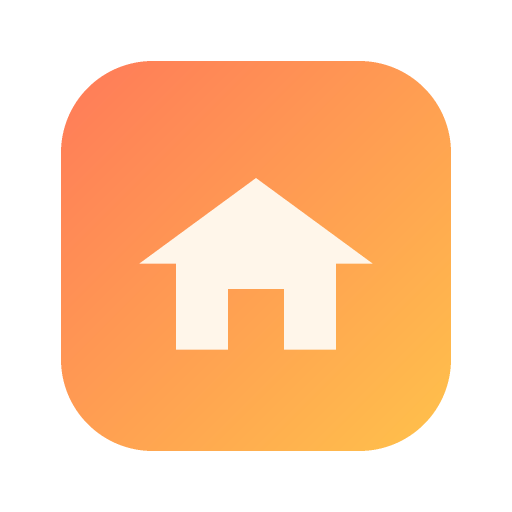
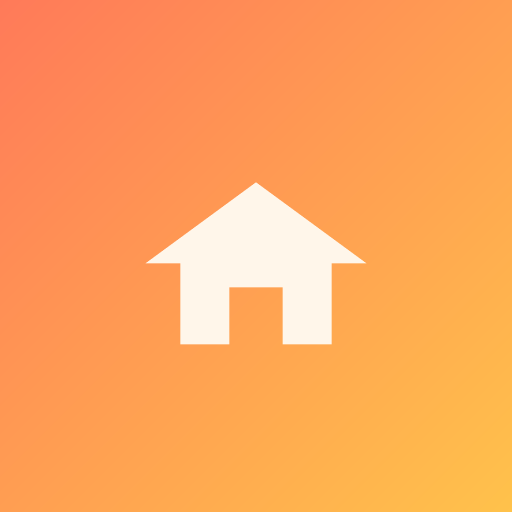
fix: iconos de iOS sin transparencia para que aparezcan al añadir a inicio
En iPhone, "Añadir a pantalla de inicio" no mostraba ningún icono: el
apple-touch-icon era un PNG RGBA con las esquinas transparentes, y iOS
no admite canal alfa ahí (lo compone sobre negro o descarta el icono).

Los iconos de Apple pasan a ser opacos y sin esquinas redondeadas: el
redondeo lo aplica el propio iOS. Se añaden los tamaños 167/152/120
para iPad e iPhone antiguos, y una copia en la raíz del sitio, que es
donde iOS busca por defecto si no encuentra la etiqueta link.

El icono maskable de Android también pasa a ser opaco a pantalla
completa, que es lo que exige la máscara del sistema.

Sube la caché del service worker a casa-v2; sin eso, los dispositivos
que ya tuvieran la app instalada seguirían usando los iconos viejos.

diff --git a/herramientas/generar-iconos.js b/herramientas/generar-iconos.js
@@ -84,9 +84,19 @@ function escribirPng(ruta, ancho, alto, pixeles) {
 }
 
 // --- Dibujo del icono -------------------------------------------------------
-// escala: 0 = el dibujo llena el lienzo (icono normal)
-//         >0 = deja ese margen proporcional (icono maskable, que Android recorta)
-function dibujar(tam, margen) {
+// opciones:
+//   margen        proporción de aire alrededor del dibujo (0 = llena el lienzo)
+//   sinRecorte    true  = fondo OPACO que llena todo el cuadrado, sin esquinas
+//                         redondeadas ni transparencia. Obligatorio para el
+//                         icono de Apple (iOS descarta o ennegrece los PNG con
+//                         canal alfa) y para los "maskable" de Android, que
+//                         recorta el sistema con su propia forma.
+//                 false = cuadrado redondeado con las esquinas transparentes.
+//   zonaSegura    con sinRecorte, qué proporción del centro ocupa el dibujo,
+//                 para que no se coma nada el recorte del sistema.
+function dibujar(tam, margen, opciones) {
+  const sinRecorte = !!(opciones && opciones.sinRecorte);
+  const zonaSegura = (opciones && opciones.zonaSegura) || 0.76;
   const px = Buffer.alloc(tam * tam * 4);
   const poner = (x, y, [r, g, b], a = 255) => {
     if (x < 0 || y < 0 || x >= tam || y >= tam) return;
@@ -101,14 +111,16 @@ function dibujar(tam, margen) {
     px[i + 3] = Math.round(ao * 255);
   };
 
-  // Zona útil (el maskable deja aire alrededor porque Android recorta)
-  const m = Math.round(tam * margen);
+  // --- Geometría del FONDO ---
+  // Con sinRecorte el fondo llena todo el lienzo y queda opaco.
+  const m = sinRecorte ? 0 : Math.round(tam * margen);
   const lado = tam - m * 2;
-  const radio = lado * 0.235;            // esquinas redondeadas, como las tarjetas
+  const radio = sinRecorte ? 0 : lado * 0.235;  // esquinas como las tarjetas
   const cx0 = m, cy0 = m, cx1 = m + lado, cy1 = m + lado;
 
   // Cobertura de un píxel dentro del cuadrado redondeado (con suavizado)
   function coberturaFondo(x, y) {
+    if (sinRecorte) return 1;             // opaco de borde a borde
     const MUESTRAS = 3, paso = 1 / MUESTRAS;
     let dentro = 0;
     for (let sy = 0; sy < MUESTRAS; sy++) {
@@ -134,14 +146,18 @@ function dibujar(tam, margen) {
     }
   }
 
-  // La casita, centrada en la zona útil
-  const u = lado / 100;                   // unidad relativa
-  const centroX = cx0 + lado / 2;
-  const tejadoY = cy0 + lado * 0.30;      // vértice del tejado
-  const aleroY  = cy0 + lado * 0.52;      // base del tejado
-  const baseY   = cy0 + lado * 0.74;      // suelo de la casa
-  const medioAncho = lado * 0.30;         // medio ancho del tejado
-  const muroMedio  = lado * 0.205;        // medio ancho del cuerpo
+  // --- Geometría del CONTENIDO (la casita) ---
+  // Con sinRecorte se encoge al centro para sobrevivir al recorte del sistema.
+  const ladoC = sinRecorte ? tam * zonaSegura : lado;
+  const oxC = sinRecorte ? (tam - ladoC) / 2 : cx0;
+  const oyC = sinRecorte ? (tam - ladoC) / 2 : cy0;
+
+  const centroX = oxC + ladoC / 2;
+  const tejadoY = oyC + ladoC * 0.30;     // vértice del tejado
+  const aleroY  = oyC + ladoC * 0.52;     // base del tejado
+  const baseY   = oyC + ladoC * 0.74;     // suelo de la casa
+  const medioAncho = ladoC * 0.30;        // medio ancho del tejado
+  const muroMedio  = ladoC * 0.205;       // medio ancho del cuerpo
 
   for (let y = 0; y < tam; y++) {
     for (let x = 0; x < tam; x++) {
@@ -159,7 +175,7 @@ function dibujar(tam, margen) {
           // Cuerpo: rectángulo
           if (!hit && fy > aleroY && fy <= baseY && Math.abs(fx - centroX) <= muroMedio) hit = true;
           // Puerta: se recorta del cuerpo
-          if (hit && fy > baseY - lado * 0.155 && Math.abs(fx - centroX) <= lado * 0.072) hit = false;
+          if (hit && fy > baseY - ladoC * 0.155 && Math.abs(fx - centroX) <= ladoC * 0.072) hit = false;
           if (hit) dentro++;
         }
       }
@@ -174,16 +190,37 @@ function dibujar(tam, margen) {
 fs.mkdirSync(SALIDA, { recursive: true });
 
 const trabajos = [
+  // --- PWA / Android: cuadrado redondeado con esquinas transparentes ---
   { archivo: "icono-192.png", tam: 192, margen: 0 },
   { archivo: "icono-512.png", tam: 512, margen: 0 },
-  // Los iconos "maskable" los recorta Android (círculo, cuadrado redondeado…).
-  // Google exige que lo importante quepa en el 80% central: de ahí el margen.
-  { archivo: "icono-512-maskable.png", tam: 512, margen: 0.12 },
-  { archivo: "apple-touch-icon.png", tam: 180, margen: 0 },
+
+  // --- Android "maskable": lo recorta el sistema con su propia forma ---
+  // Tiene que ser OPACO y llenar todo el cuadrado; si tuviera las esquinas
+  // transparentes se verían negras al aplicar la máscara.
+  { archivo: "icono-512-maskable.png", tam: 512, sinRecorte: true, zonaSegura: 0.72 },
+
+  // --- iOS ("Añadir a pantalla de inicio") ---
+  // iOS NO admite transparencia aquí: compone el alfa sobre negro y en varias
+  // versiones descarta el icono entero (queda sin icono). Por eso van opacos y
+  // sin redondear: el redondeo lo aplica iOS.
+  { archivo: "apple-touch-icon.png", tam: 180, sinRecorte: true, zonaSegura: 0.80 },
+  { archivo: "apple-touch-icon-167.png", tam: 167, sinRecorte: true, zonaSegura: 0.80 }, // iPad Pro
+  { archivo: "apple-touch-icon-152.png", tam: 152, sinRecorte: true, zonaSegura: 0.80 }, // iPad
+  { archivo: "apple-touch-icon-120.png", tam: 120, sinRecorte: true, zonaSegura: 0.80 }, // iPhone antiguos
 ];
 
 for (const t of trabajos) {
-  const bytes = escribirPng(path.join(SALIDA, t.archivo), t.tam, t.tam, dibujar(t.tam, t.margen));
-  console.log("  " + t.archivo.padEnd(26) + t.tam + "x" + t.tam + "  " + (bytes / 1024).toFixed(1) + " kB");
+  const px = dibujar(t.tam, t.margen || 0, { sinRecorte: t.sinRecorte, zonaSegura: t.zonaSegura });
+  const bytes = escribirPng(path.join(SALIDA, t.archivo), t.tam, t.tam, px);
+  const nota = t.sinRecorte ? "opaco" : "con transparencia";
+  console.log("  " + t.archivo.padEnd(30) + (t.tam + "x" + t.tam).padEnd(10) +
+              (bytes / 1024).toFixed(1).padStart(6) + " kB   " + nota);
 }
-console.log("\nIconos generados en public/iconos/");
+
+// iOS busca /apple-touch-icon.png en la raíz del sitio si no encuentra la
+// etiqueta <link>. Se deja una copia ahí como red de seguridad.
+fs.copyFileSync(
+  path.join(SALIDA, "apple-touch-icon.png"),
+  path.join(__dirname, "..", "public", "apple-touch-icon.png")
+);
+console.log("\nIconos generados en public/iconos/ (+ copia en la raíz para iOS)");

diff --git a/public/index.html b/public/index.html
@@ -9,7 +9,15 @@
 <meta name="description" content="Organiza las tareas del hogar en familia: tareas fijas y adicionales, paga, niveles y menús semanales." />
 <link rel="manifest" href="/manifest.webmanifest" />
 <link rel="icon" type="image/png" sizes="192x192" href="/iconos/icono-192.png" />
-<link rel="apple-touch-icon" href="/iconos/apple-touch-icon.png" />
+<!-- iOS ("Añadir a pantalla de inicio"). Los iconos deben ser OPACOS y sin
+     esquinas redondeadas: iOS aplica su propia máscara, y si el PNG tiene
+     transparencia la compone sobre negro o descarta el icono. Se declaran
+     varios tamaños porque iOS elige el que mejor encaje en cada dispositivo. -->
+<link rel="apple-touch-icon" sizes="180x180" href="/iconos/apple-touch-icon.png" />
+<link rel="apple-touch-icon" sizes="167x167" href="/iconos/apple-touch-icon-167.png" />
+<link rel="apple-touch-icon" sizes="152x152" href="/iconos/apple-touch-icon-152.png" />
+<link rel="apple-touch-icon" sizes="120x120" href="/iconos/apple-touch-icon-120.png" />
+<link rel="apple-touch-icon-precomposed" href="/iconos/apple-touch-icon.png" />
 <meta name="apple-mobile-web-app-title" content="Casa" />
 <meta name="apple-mobile-web-app-status-bar-style" content="default" />
 <link rel="preconnect" href="https://fonts.googleapis.com" />

diff --git a/public/sw.js b/public/sw.js
@@ -9,7 +9,11 @@
 //  que es lo que permite que la app abra al instante y muestre un mensaje
 //  decente cuando no hay conexión.
 // ============================================================================
-const VERSION = "casa-v1";
+// OJO: al cambiar cualquier archivo de CASCARON hay que SUBIR ESTE NÚMERO.
+// Si no, los dispositivos que ya tengan la app instalada seguirán sirviendo la
+// copia vieja guardada en su caché y no verán el cambio nunca.
+// v2 (ago 2026): iconos de iOS regenerados sin transparencia.
+const VERSION = "casa-v2";
 const CASCARON = [
   "/",
   "/manifest.webmanifest",
@@ -17,6 +21,9 @@ const CASCARON = [
   "/iconos/icono-512.png",
   "/iconos/icono-512-maskable.png",
   "/iconos/apple-touch-icon.png",
+  "/iconos/apple-touch-icon-167.png",
+  "/iconos/apple-touch-icon-152.png",
+  "/iconos/apple-touch-icon-120.png",
 ];
 
 self.addEventListener("install", (evento) => {
